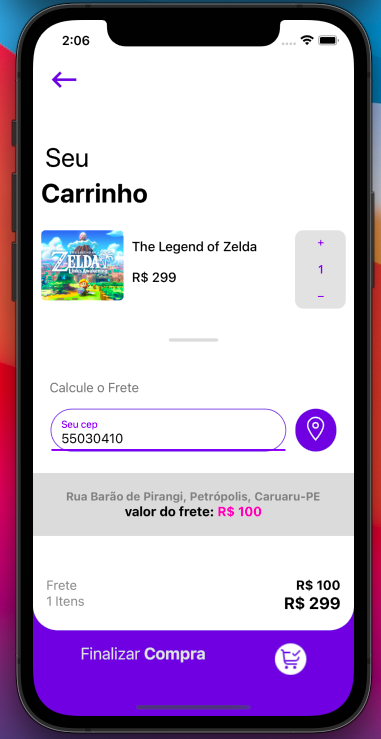
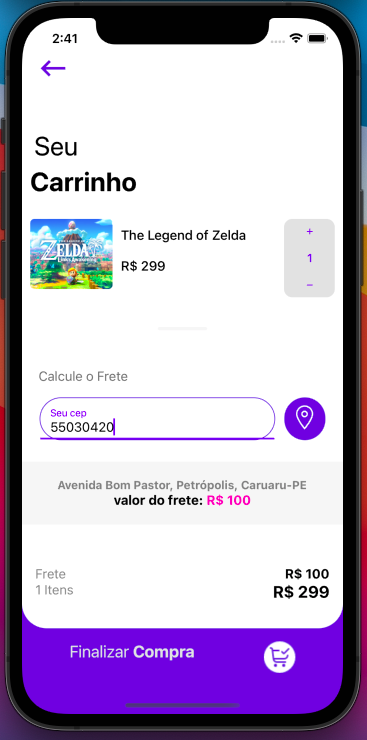
readme

Changed region(s): [[0.0, 0.0, 1.0, 0.9959], [0.1499, 0.9337, 0.9292, 0.9959]]

diff --git a/src/components/CardList.js b/src/components/CardList.js
@@ -70,7 +70,7 @@ const styles = StyleSheet.create({
         height: 20,
         flexDirection: 'row',
         justifyContent: 'space-around',
-        backgroundColor: Colors.grayLight,
+        backgroundColor: Colors.gray,
         borderRadius: 3,
         marginTop: 6
     },

diff --git a/src/utils/styles/Colors.js b/src/utils/styles/Colors.js
@@ -8,11 +8,10 @@ export default {
     body_light: '#AAB2AD',
   
     background: '#FFFFFF',
-    shape: '#F6F6F6',
     white: '#FFFFFF',
-    grayLight: '#DBDBDB',
+    grayLight: '#F6F6F6',
   
-    gray: '#878787',
+    gray: '#DBDBDB',
     grayBlack: '#303030',
  
   };
